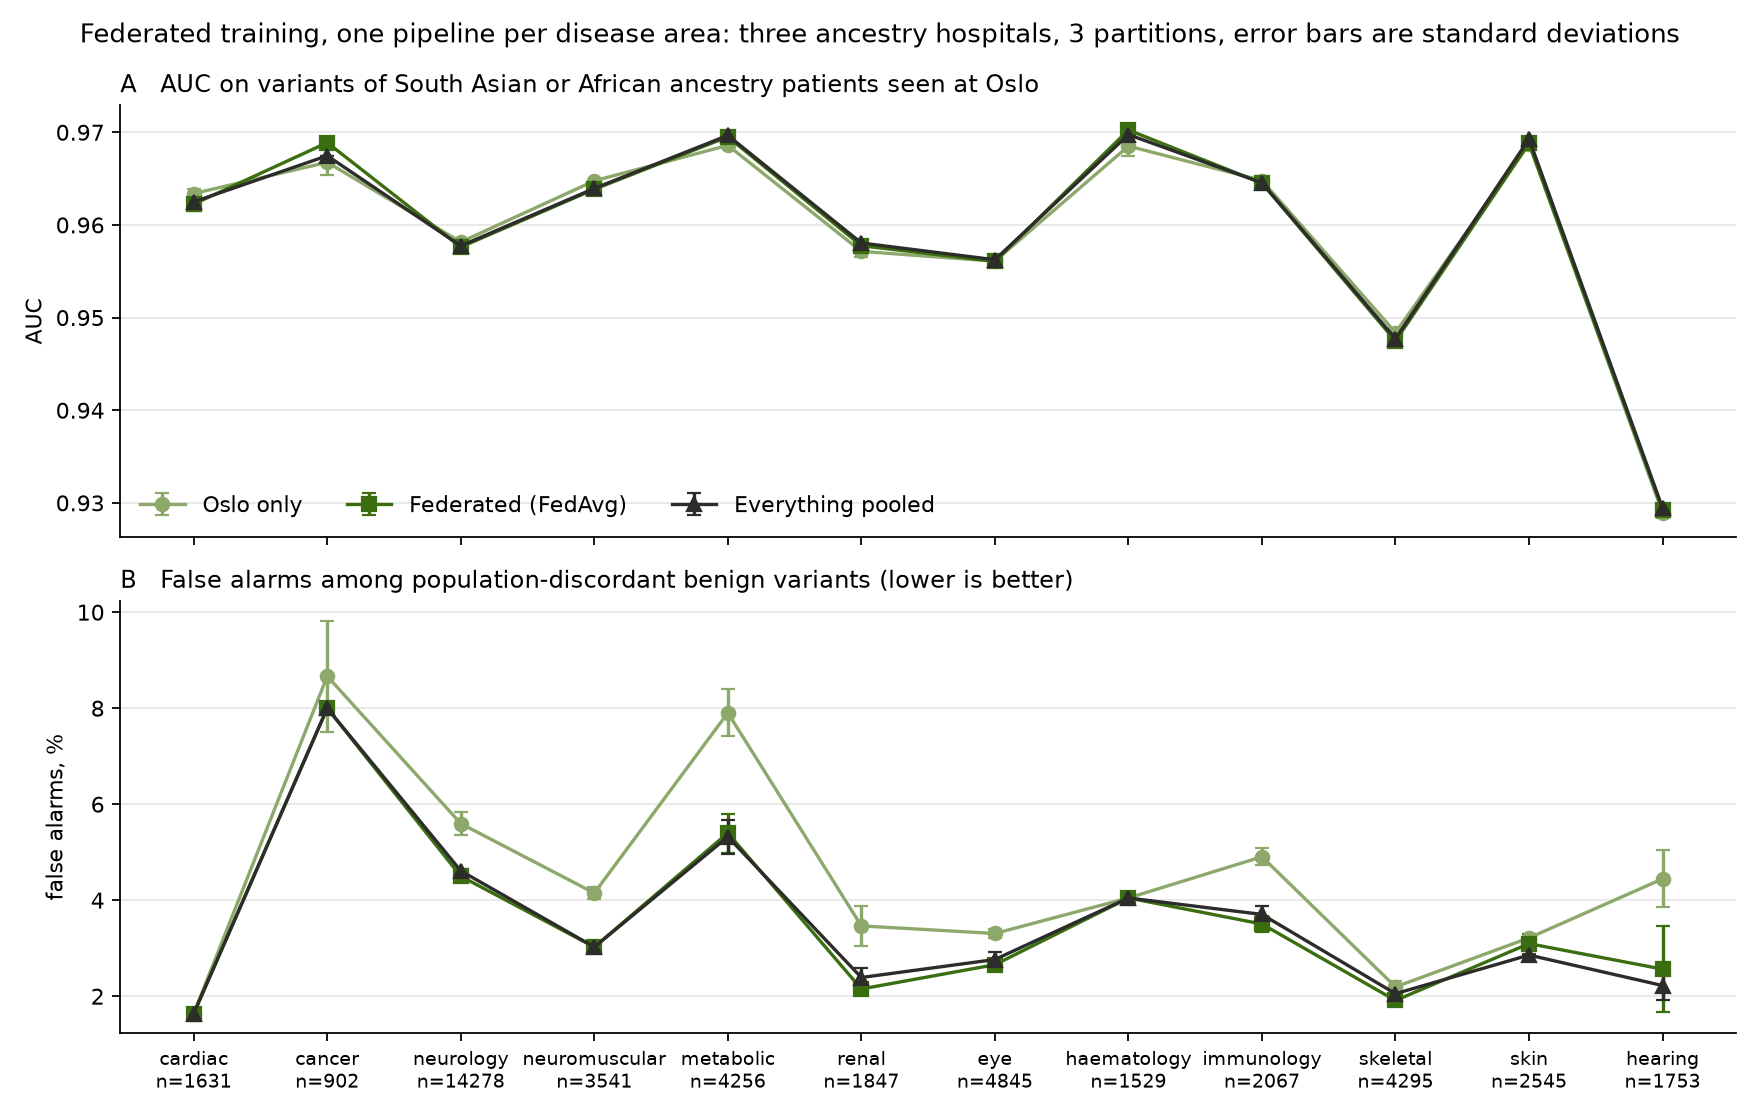
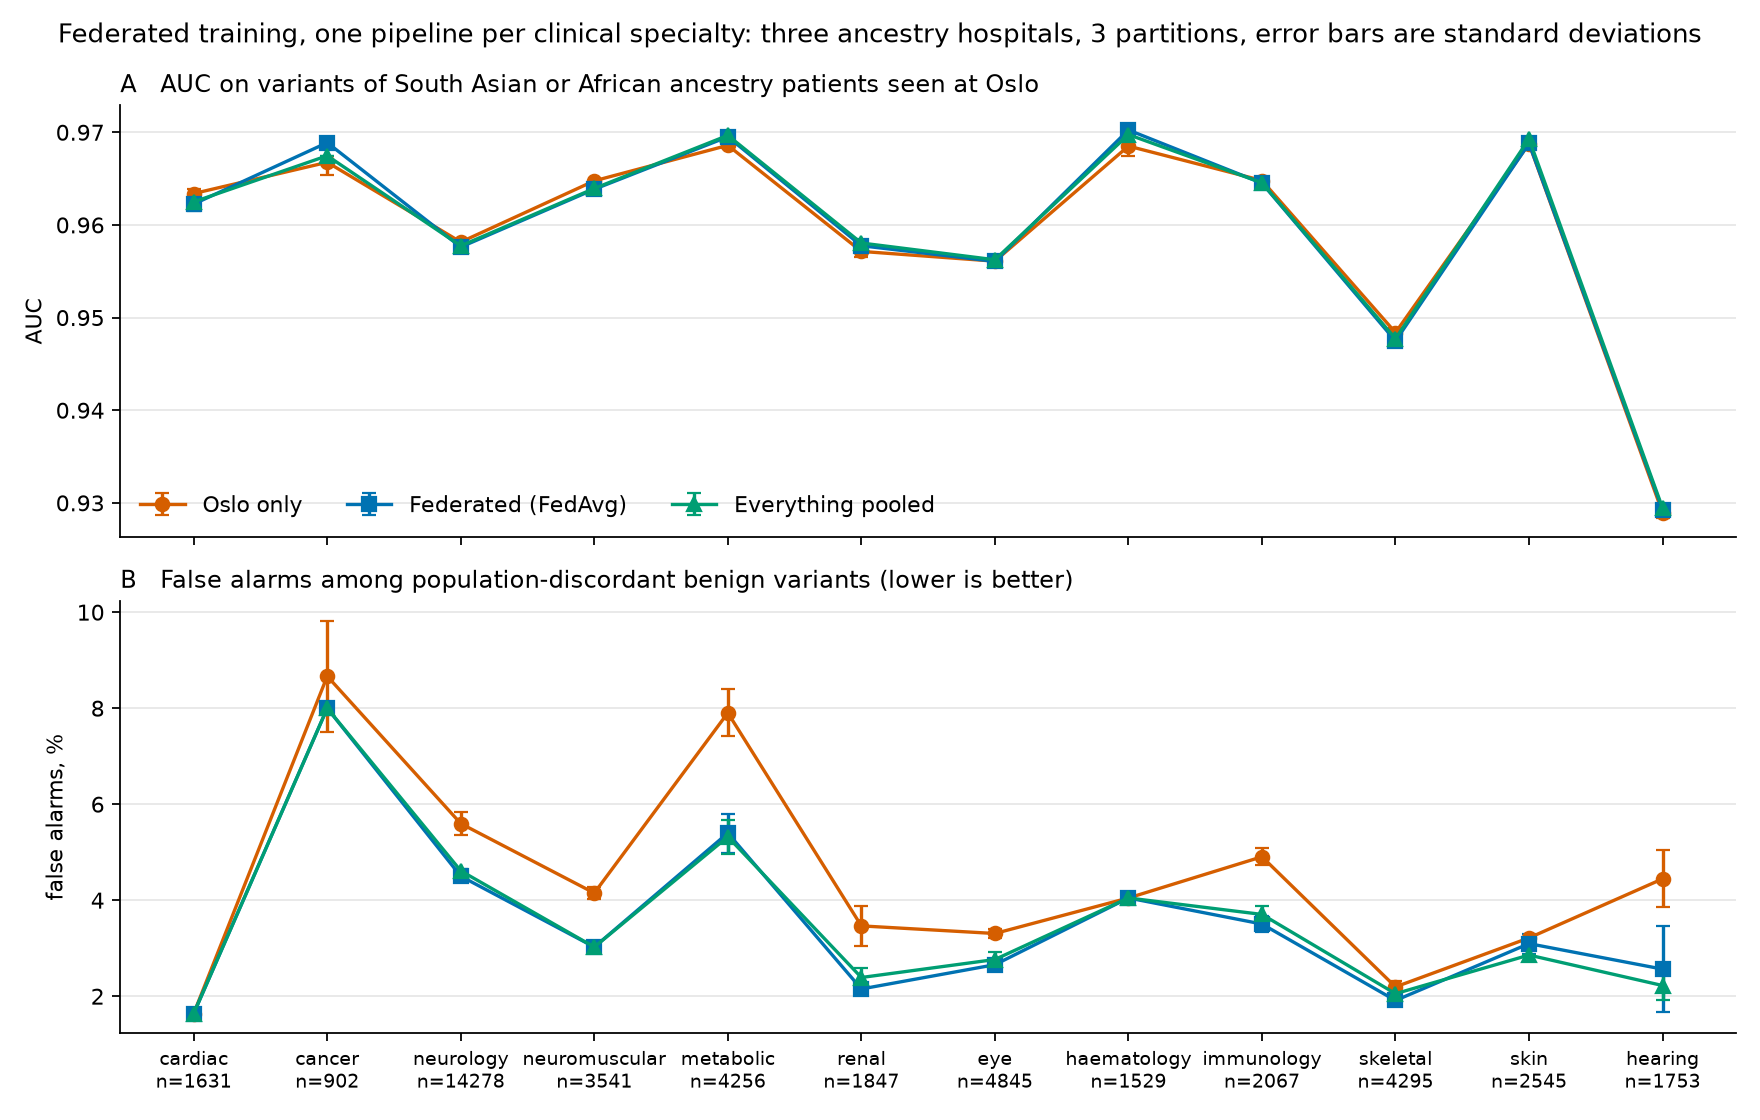
Recolour Figure 6: three hues that pass the categorical-palette checks
The two greens and near-black of the first version were not distinguishable
enough where the three lines overlap, and they fail the checks outright: the
olive is below the chroma floor at 0.091 and the contrast floor at 2.65
against white, and the near-black is outside the lightness band.

Replaced with Okabe-Ito blue, vermillion and bluish green, picked by running
the six checks rather than by eye. Every pair clears the colour-vision
target, worst 11.0 against a target of 8, the worst normal-vision pair is
18.7 against a floor of 15, and all three clear the chroma, lightness and
contrast floors on white. Markers still differ, so identity never rests on
colour alone.

Also names the panels clinical specialties in the figure title, as section
3.10 does, since disease area already denotes the three builds of 2.3.

diff --git a/scripts/07_disease_areas.py b/scripts/07_disease_areas.py
@@ -190,8 +190,13 @@ def plot(results: dict) -> None:
     import matplotlib.pyplot as plt
 
     areas = list(results["areas"])
-    style = {"oslo_only": ("Oslo only", "#8CA86A", "o"), "federated": ("Federated (FedAvg)", "#3B6D11", "s"),
-             "pooled": ("Everything pooled", "#2c2c2a", "^")}
+    # Okabe-Ito blue / vermillion / bluish green. Chosen by running the six
+    # categorical-palette checks against a white surface rather than by eye: the
+    # previous two-greens-and-black set failed the chroma and contrast floors, and
+    # this one clears the colour-vision-deficiency target on every pair, worst
+    # 11.0 against a target of 8. Markers differ too, so identity is never colour alone.
+    style = {"oslo_only": ("Oslo only", "#D55E00", "o"), "federated": ("Federated (FedAvg)", "#0072B2", "s"),
+             "pooled": ("Everything pooled", "#009E73", "^")}
     fig, axes = plt.subplots(2, 1, figsize=(11, 7), sharex=True)
     panels = [("auc_travelling", "A   AUC on variants of South Asian or African ancestry patients seen at Oslo", "AUC"),
               ("false_alarms", "B   False alarms among population-discordant benign variants (lower is better)", "false alarms, %")]
@@ -210,7 +215,7 @@ def plot(results: dict) -> None:
     axes[1].set_xticks(range(len(areas)),
                        [f"{a}\nn={results['areas'][a]['test_rows']}" for a in areas], fontsize=8.5)
     axes[0].legend(frameon=False, ncol=3, loc="lower left")
-    fig.suptitle("Federated training, one pipeline per disease area: three ancestry hospitals, "
+    fig.suptitle("Federated training, one pipeline per clinical specialty: three ancestry hospitals, "
                  f"{len(results['seeds'])} partitions, error bars are standard deviations", fontsize=11.5)
     fig.tight_layout()
     fig.savefig(FIGURE, dpi=160)

diff --git a/README.md b/README.md
@@ -46,7 +46,7 @@ about is the one whose ancestry the hospital rarely sees, a South Asian or Afric
 arrives at Oslo. All three models are told the same thing about frequency, so the only difference
 between them is how they were trained.
 
-![Two panels over twelve clinical specialties. Panel A, AUC on variants of South Asian or African ancestry patients seen at Oslo, has the three lines on top of each other in every specialty. Panel B, false alarms among population-discordant benign variants, separates them: Oslo training alone is above federated and pooled in ten of the twelve specialties and level in the other two, by about a third in neurology and metabolic disease](docs/disease_areas_figure.png?v=1)
+![Two panels over twelve clinical specialties. Panel A, AUC on variants of South Asian or African ancestry patients seen at Oslo, has the three lines on top of each other in every specialty. Panel B, false alarms among population-discordant benign variants, separates them: Oslo training alone is above federated and pooled in ten of the twelve specialties and level in the other two, by about a third in neurology and metabolic disease](docs/disease_areas_figure.png?v=2)
 
 - **Federated training cost nothing in ranking, in any of the twelve.** The three lines in panel A sit
   within 0.002 AUC of each other, and which one is on top changes from specialty to specialty.
